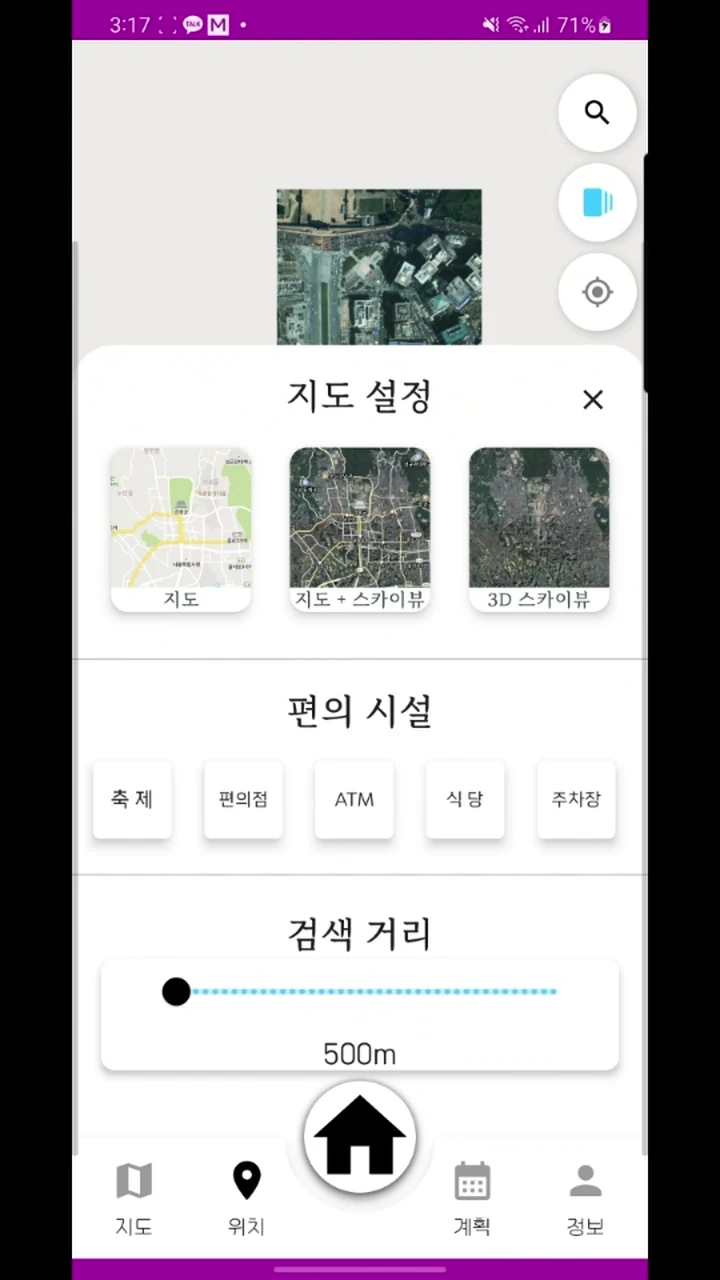
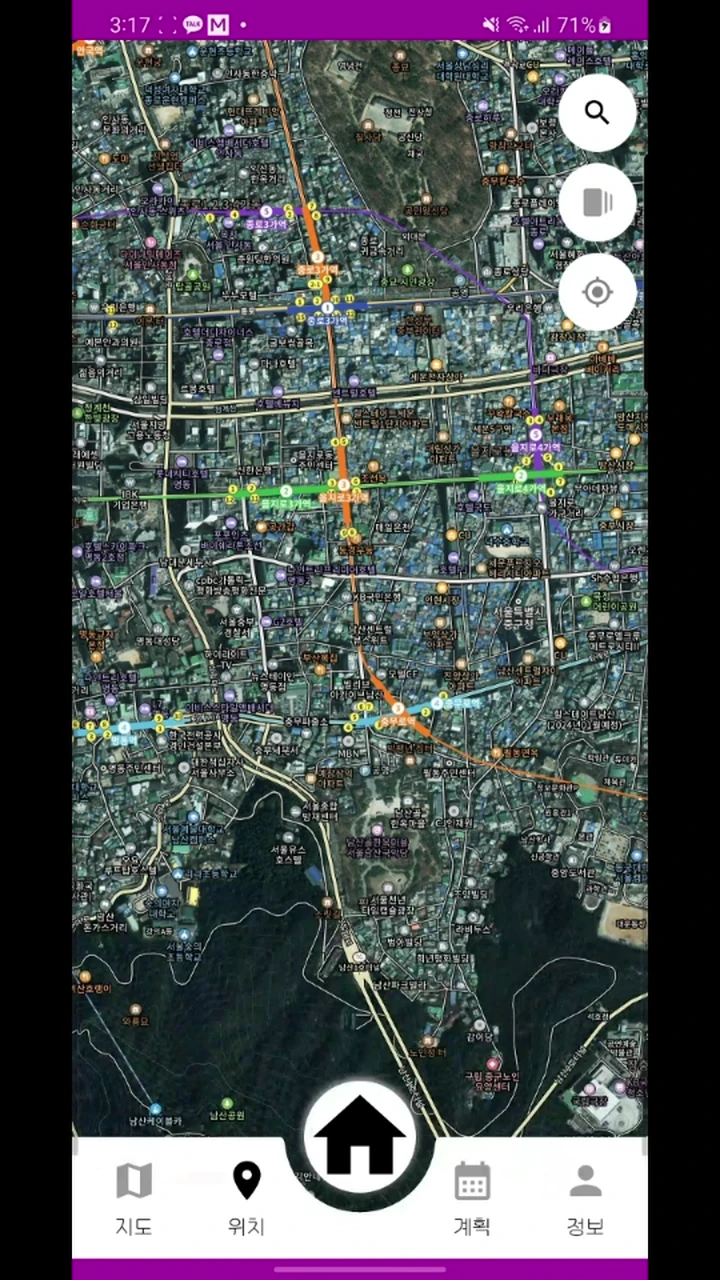
Fix TravelB map and expand Deutsch Flow gallery (#7)
Replace the TravelB settings capture with the full map view and add six optimized Deutsch Flow screenshots from the vocabapp repository.

diff --git a/app/page.tsx b/app/page.tsx
@@ -8,6 +8,12 @@ import unicalWeekScreenshot from "../public/projects/unical-week.png";
 import unicalDayScreenshot from "../public/projects/unical-day.png";
 import unicalLoginScreenshot from "../public/projects/unical-login.png";
 import deutschFlowScreenshot from "../public/projects/deutsch-flow.png";
+import deutschFlowWordScreenshot from "../public/projects/deutsch-flow-word.webp";
+import deutschFlowLibraryScreenshot from "../public/projects/deutsch-flow-library.webp";
+import deutschFlowPracticeScreenshot from "../public/projects/deutsch-flow-practice.webp";
+import deutschFlowArticleScreenshot from "../public/projects/deutsch-flow-article.webp";
+import deutschFlowSpeakingScreenshot from "../public/projects/deutsch-flow-speaking.webp";
+import deutschFlowDictionaryScreenshot from "../public/projects/deutsch-flow-dictionary.webp";
 import travelbDiscoverScreenshot from "../public/projects/travelb-discover.webp";
 import travelbPlanScreenshot from "../public/projects/travelb-plan.webp";
 import travelbMapScreenshot from "../public/projects/travelb-map.webp";
@@ -97,6 +103,12 @@ const PROJECTS: Project[] = [
     accent: "#ff5c8a",
     screens: [
       { image: deutschFlowScreenshot, label: { ko: "학습 홈", en: "Learning home", de: "Lernübersicht" } },
+      { image: deutschFlowWordScreenshot, label: { ko: "단어 상세·발음", en: "Word details & pronunciation", de: "Wortdetails & Aussprache" } },
+      { image: deutschFlowLibraryScreenshot, label: { ko: "단어 검색·덱 필터", en: "Word search & deck filters", de: "Wortsuche & Deck-Filter" } },
+      { image: deutschFlowPracticeScreenshot, label: { ko: "B1 읽기 연습", en: "B1 reading practice", de: "B1-Leseübung" } },
+      { image: deutschFlowArticleScreenshot, label: { ko: "기사 읽기", en: "Article reading", de: "Artikellektüre" } },
+      { image: deutschFlowSpeakingScreenshot, label: { ko: "말하기 발음 점검", en: "Speaking check", de: "Sprechübung" } },
+      { image: deutschFlowDictionaryScreenshot, label: { ko: "실시간 문맥 사전", en: "Context dictionary", de: "Kontextwörterbuch" } },
     ],
     description: {
       ko: "개인 단어장, 간격 반복, 발음 코칭과 실전 콘텐츠를 하나의 학습 흐름으로 연결한 독일어 학습 앱입니다.",
